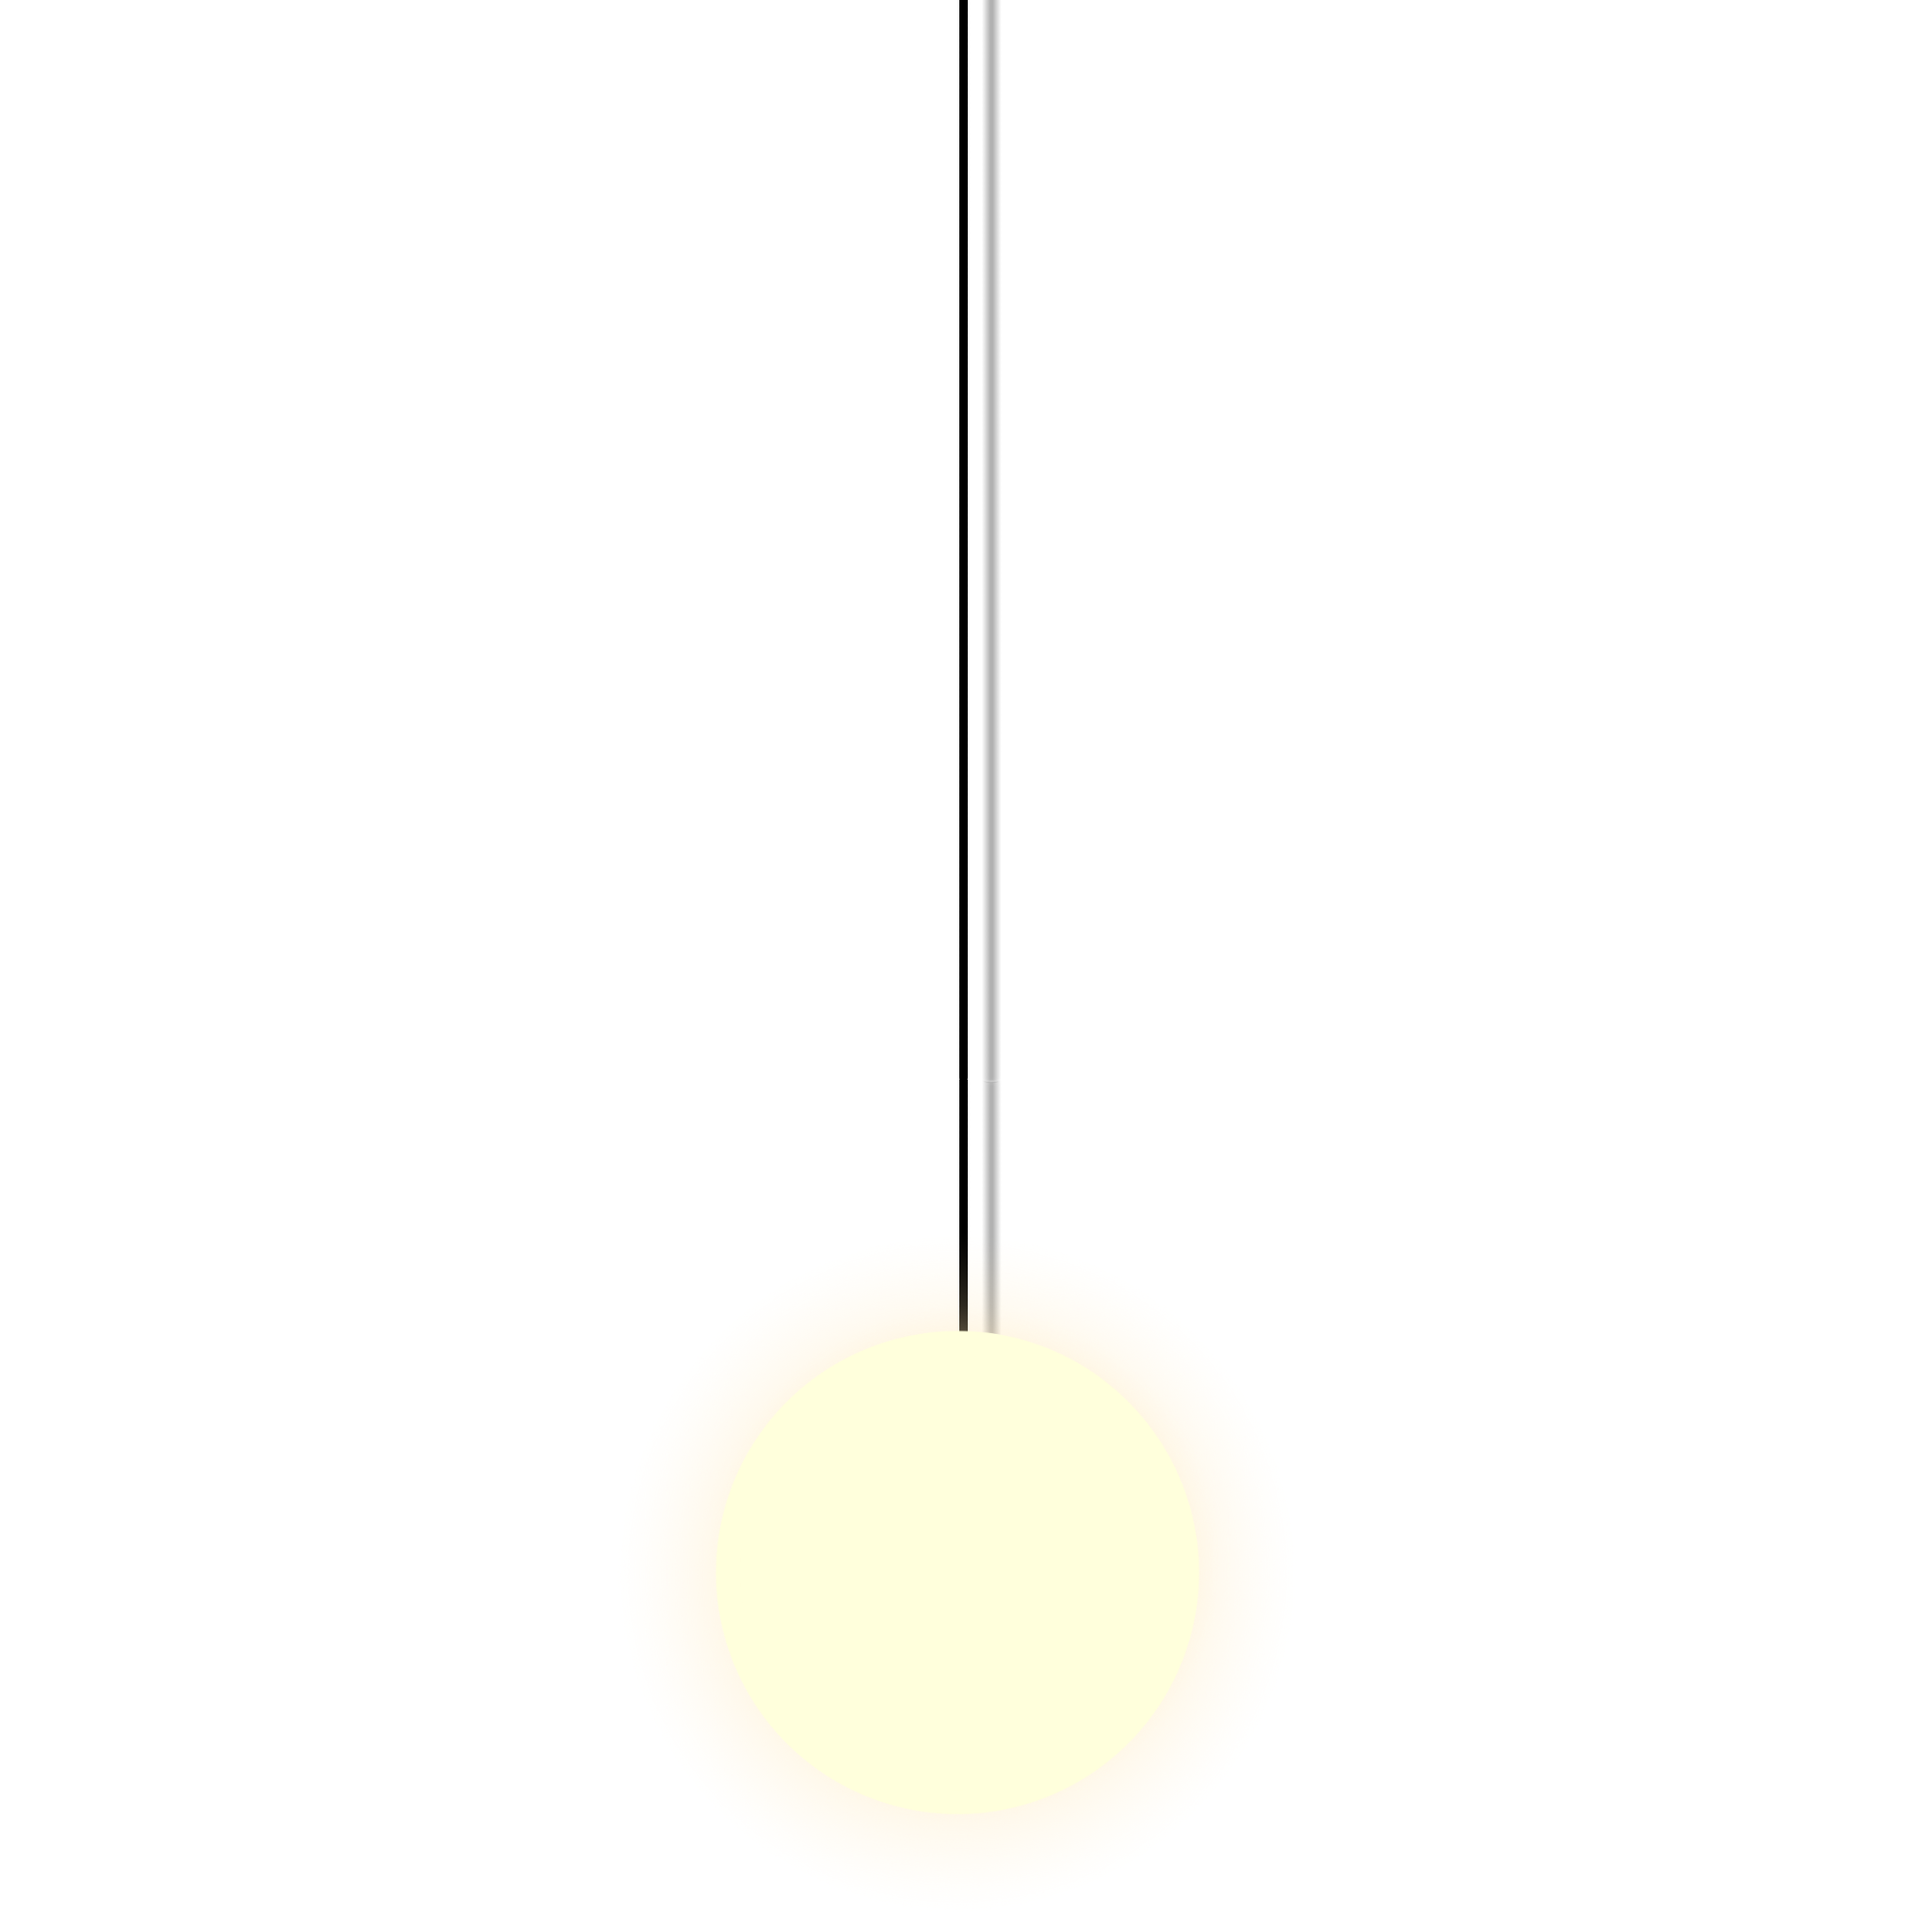
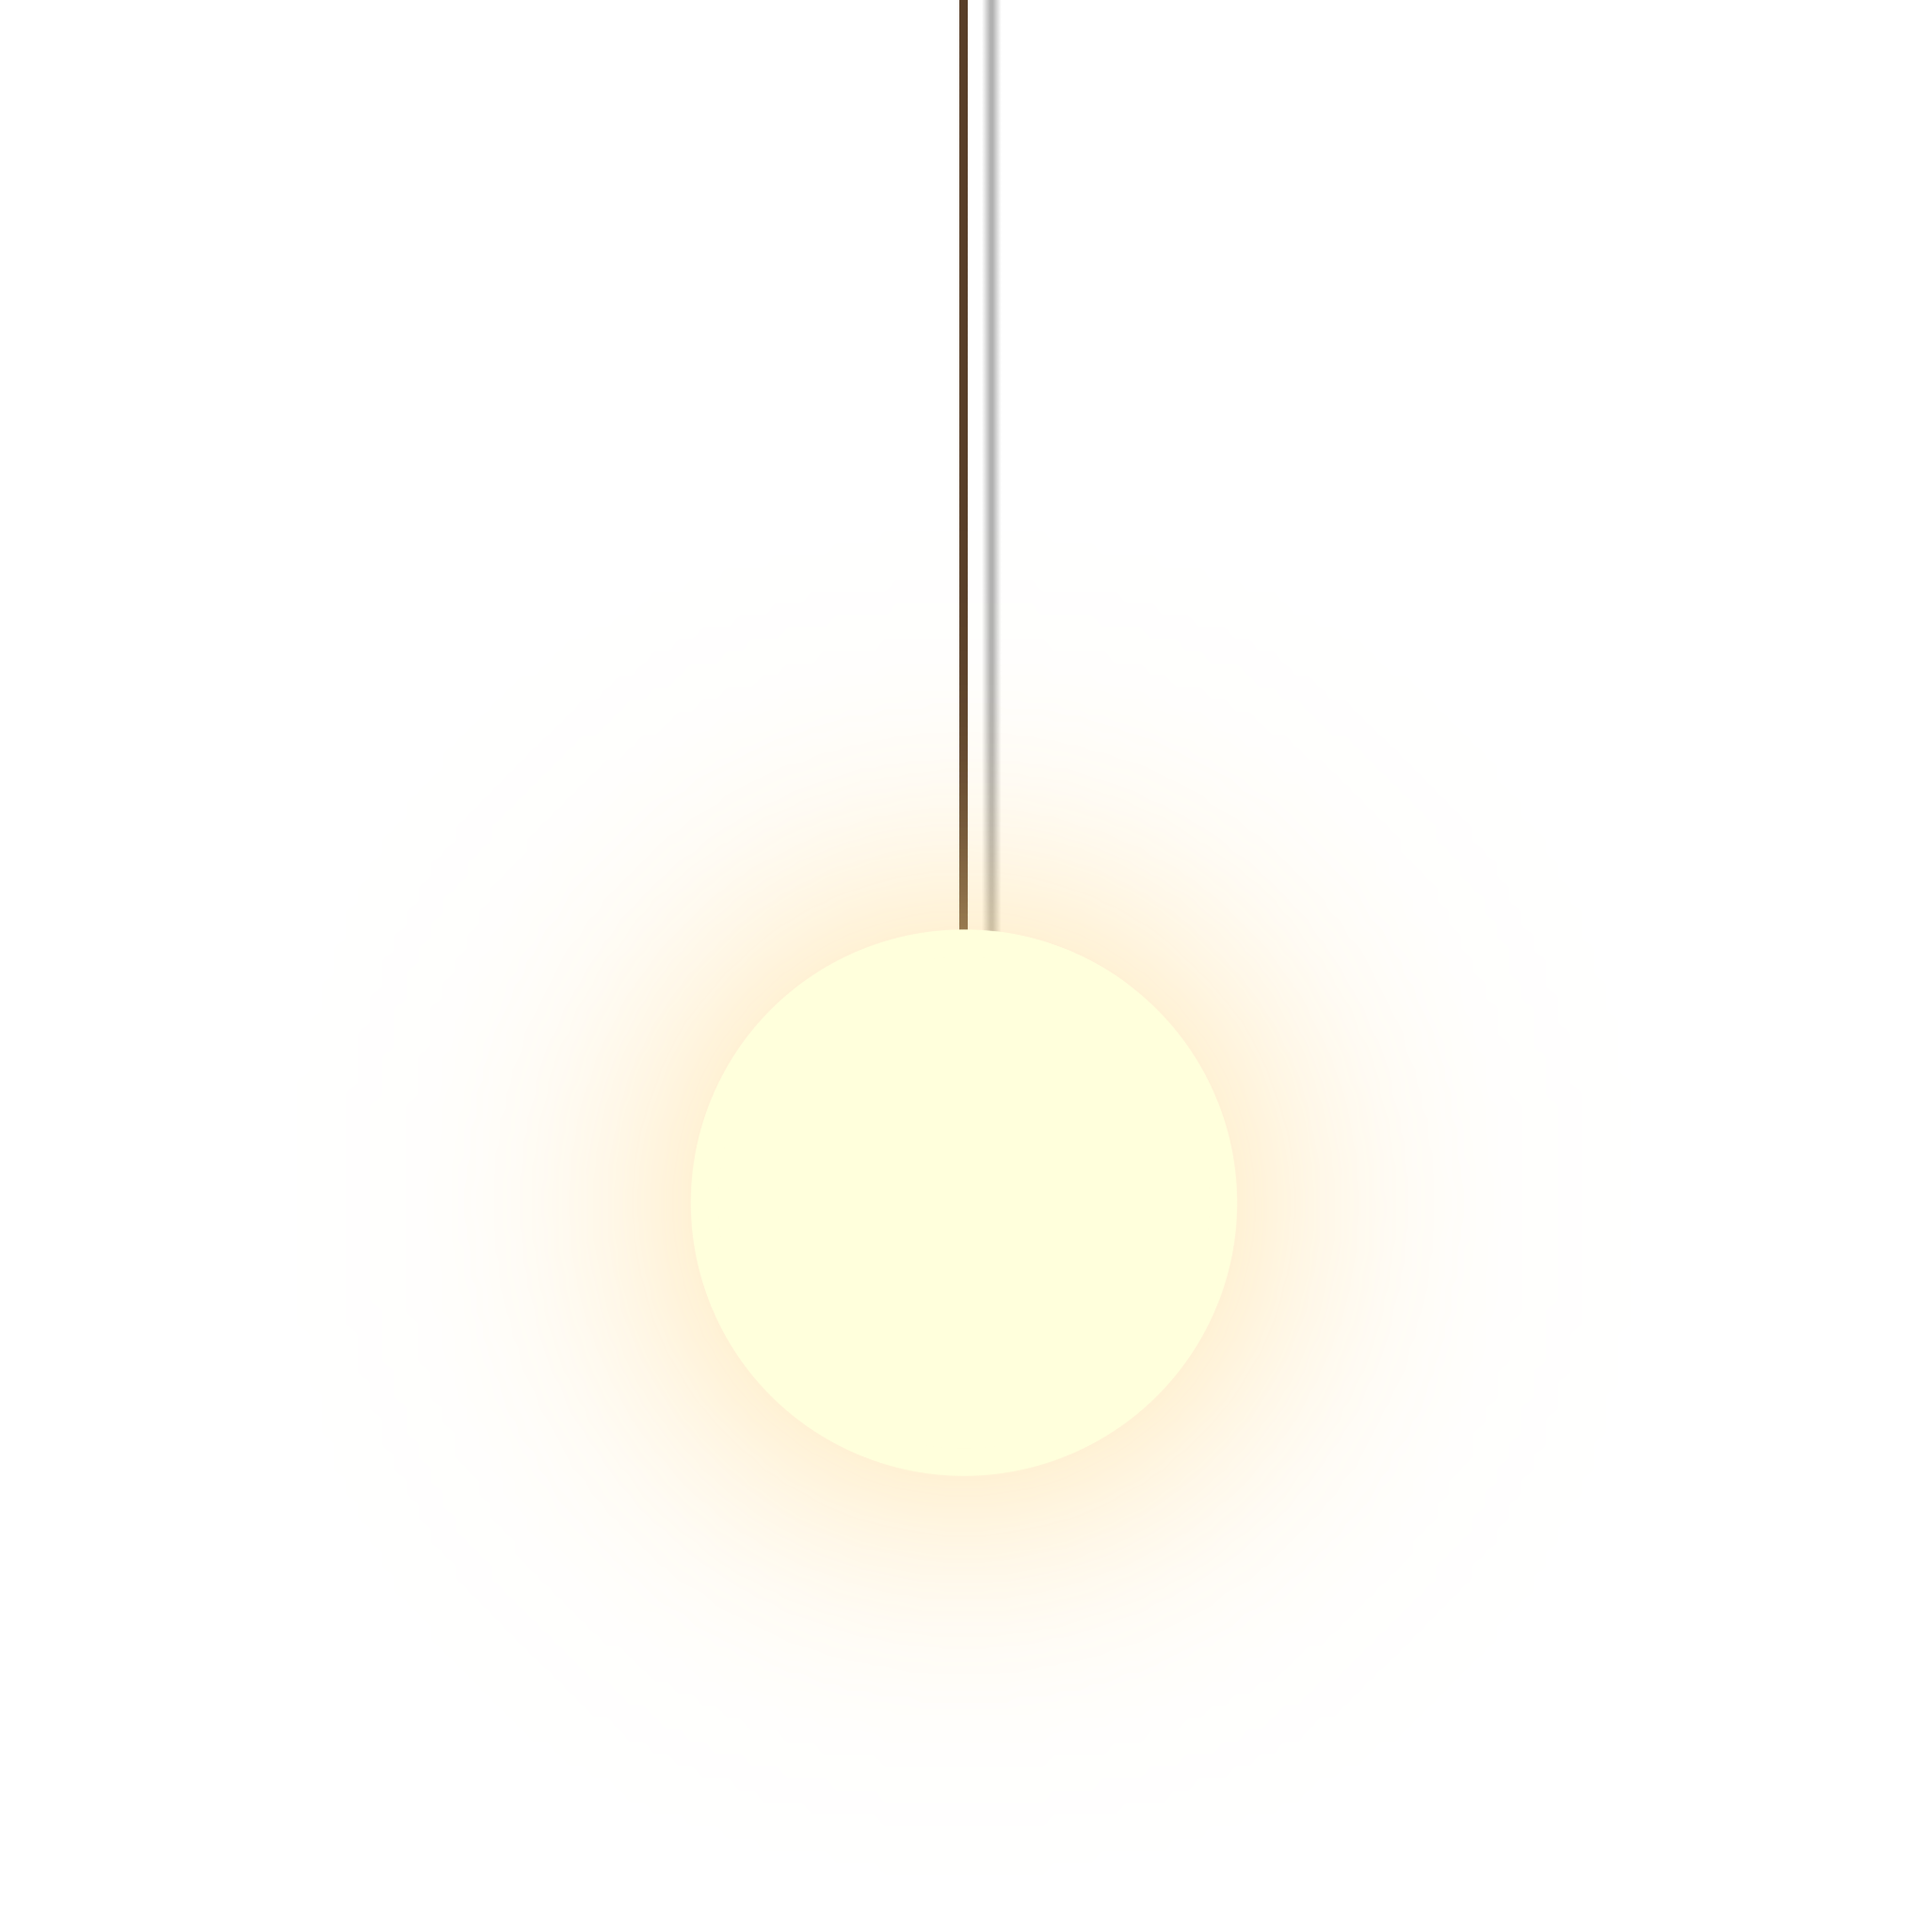
change theme and add about me

Changed region(s): [[0.3125, 0.4375, 0.6875, 0.75], [0.375, 0.8125, 0.625, 0.9375]]

diff --git a/src/components/AboutMe/AboutMe.tsx b/src/components/AboutMe/AboutMe.tsx
@@ -1,18 +1,22 @@
 import './AboutMe.css'; 
-import lightbulb from '../../assets/images/lightbulb.png';
 import longlightbulb from '../../assets/images/longlightbulb.png';
-import lightbulbdark from '../../assets/images/lightbulbdark.png';
+import backdrop from '../../assets/images/backdropportfolio.png';
+import name from '../../assets/images/nameportfolio.png';
 function AboutMe() {
   return (
     <>
-      <section className="brown-block">
+      <section className="backdrop">
+        <img
+          src= {backdrop}
+          alt="decorative backdrop"
+          className="backdrop-water"/>
         <img 
-          src={lightbulbdark} 
+          src={longlightbulb} 
           alt="decorative light bulb" 
           className="light-bulb1"
         />
         <img 
-          src={lightbulbdark} 
+          src={longlightbulb} 
           alt="decorative light bulb" 
           className="light-bulb2"
         />
@@ -22,20 +26,35 @@ function AboutMe() {
           className="light-bulb3"
         />
         <img 
-          src={lightbulbdark} 
+          src={longlightbulb} 
           alt="decorative light bulb" 
           className="light-bulb4"
         />
         <div className="top-layer">
         <div className="semi-circle">
-          <h1 className="name">VICTORIA</h1>
+          <img
+          src= {name}
+          alt="Victoria Cai"
+          className="name"/>
         </div>
       </div>
       </section>
     
       <section id="about" className="about-me">
-
-        <div className="photo-frame">Insert picture of me!</div>
+        <h2>About Me</h2>
+        <div className="about-me-content">
+          <div className="about-me-text-container">
+            <p className="about-me-text">
+              Hello! I'm Victoria, a computer science student at the University of Toronto, graduating 2028. 
+            </p>
+            <p className="about-me-text">
+              In my spare time, I am a digital artist, nail artist, big-time music enjoyer, and gym-goer.
+              </p>
+            <p className="about-me-text">
+              Thank you for visiting my portfolio website. Enjoy your stay!
+            </p>
+          </div>
+        </div>
       </section>
       
     </>

diff --git a/src/components/AboutMe/AboutMe.css b/src/components/AboutMe/AboutMe.css
@@ -1,7 +1,15 @@
-.brown-block {
-  background-color: #665044; 
+.backdrop {
   position: relative;
   height: 600px;              
+  width: 100%;
+  display: flex;
+  align-items: center;
+  justify-content: center;
+  overflow: visible;
+}
+.backdrop-water{
+  position: relative;
+  height: 100%;              
   width: 100%;
   display: flex;
   align-items: center;
@@ -37,9 +45,11 @@
 }
 
 .name {
-  font-family: 'Cursive', sans-serif;
-  font-size: 700%;
-  color: #000;
+  position: absolute;
+  top: 50px;
+  width: 130%;
+  height: 100%;
+  display: flex;
 }
 
 .light-bulb1 {
@@ -64,7 +74,7 @@
 
 .light-bulb3 {
   position: absolute;
-  top: -20%;
+  top: 0%;
   right: 7%;
   z-index: 4;
   width: 50%;     
@@ -89,4 +99,51 @@
   .light-bulb4 {
     display: none;
   }
+}
+
+.about-me {
+  background-color: #ffffff;
+  width: 100%;
+  padding: 120px 80px;
+  min-height: 600px;
+  display: flex;
+  flex-direction: column;
+  align-items: center;
+  justify-content: flex-start;
+  gap: 60px;
+}
+
+.about-me h2 {
+  font-family: Pinyon Script;
+  font-weight: 400;
+  font-size: 5rem;
+  transform: translateX(-30%);
+  color: #000;
+  margin-bottom: 0px;
+  text-align: center;
+}
+
+.about-me-content {
+  max-width: 1000px;
+  transform: translateX(-10%);
+  display: flex;        
+  flex-direction: column;
+  align-items: center;   
+  justify-content: center; 
+  margin: 0 auto;       
+}
+
+
+.about-me-text-container {
+  display: flex;
+  flex-direction: column;
+  align-items: center;
+}
+
+.about-me-text {
+  font-family: Eina01, sans-serif;
+  font-size:  1.3rem;
+  line-height: 1.8;
+  color: #333;
+  text-align: center;
 }

diff --git a/index.html b/index.html
@@ -3,6 +3,12 @@
   <head>
     <meta charset="UTF-8" />
     <title>Victoria Hub</title>
+    <style>
+@import url('https://fonts.googleapis.com/css2?family=Lato:ital,wght@0,100;0,300;0,400;0,700;0,900;1,100;1,300;1,400;1,700;1,900&family=Pinyon+Script&family=The+Nautigal:wght@400;700&display=swap');
+</style>
+<link rel="preconnect" href="https://fonts.googleapis.com">
+<link rel="preconnect" href="https://fonts.gstatic.com" crossorigin>
+<link href="https://fonts.googleapis.com/css2?family=Lato:ital,wght@0,100;0,300;0,400;0,700;0,900;1,100;1,300;1,400;1,700;1,900&family=Pinyon+Script&family=The+Nautigal:wght@400;700&display=swap" rel="stylesheet">
   </head>
   <body>
     <div id="root"></div>

diff --git a/src/components/Navbar/Navbar.css b/src/components/Navbar/Navbar.css
@@ -43,7 +43,7 @@
 .navigation nav a {
   text-decoration: none;
   font-size: 18px;
-  color: #000000;
+  color: #8B6540;
   transition: color 0.2s ease;
   font-family: 'Eina01', sans-serif;
 }
